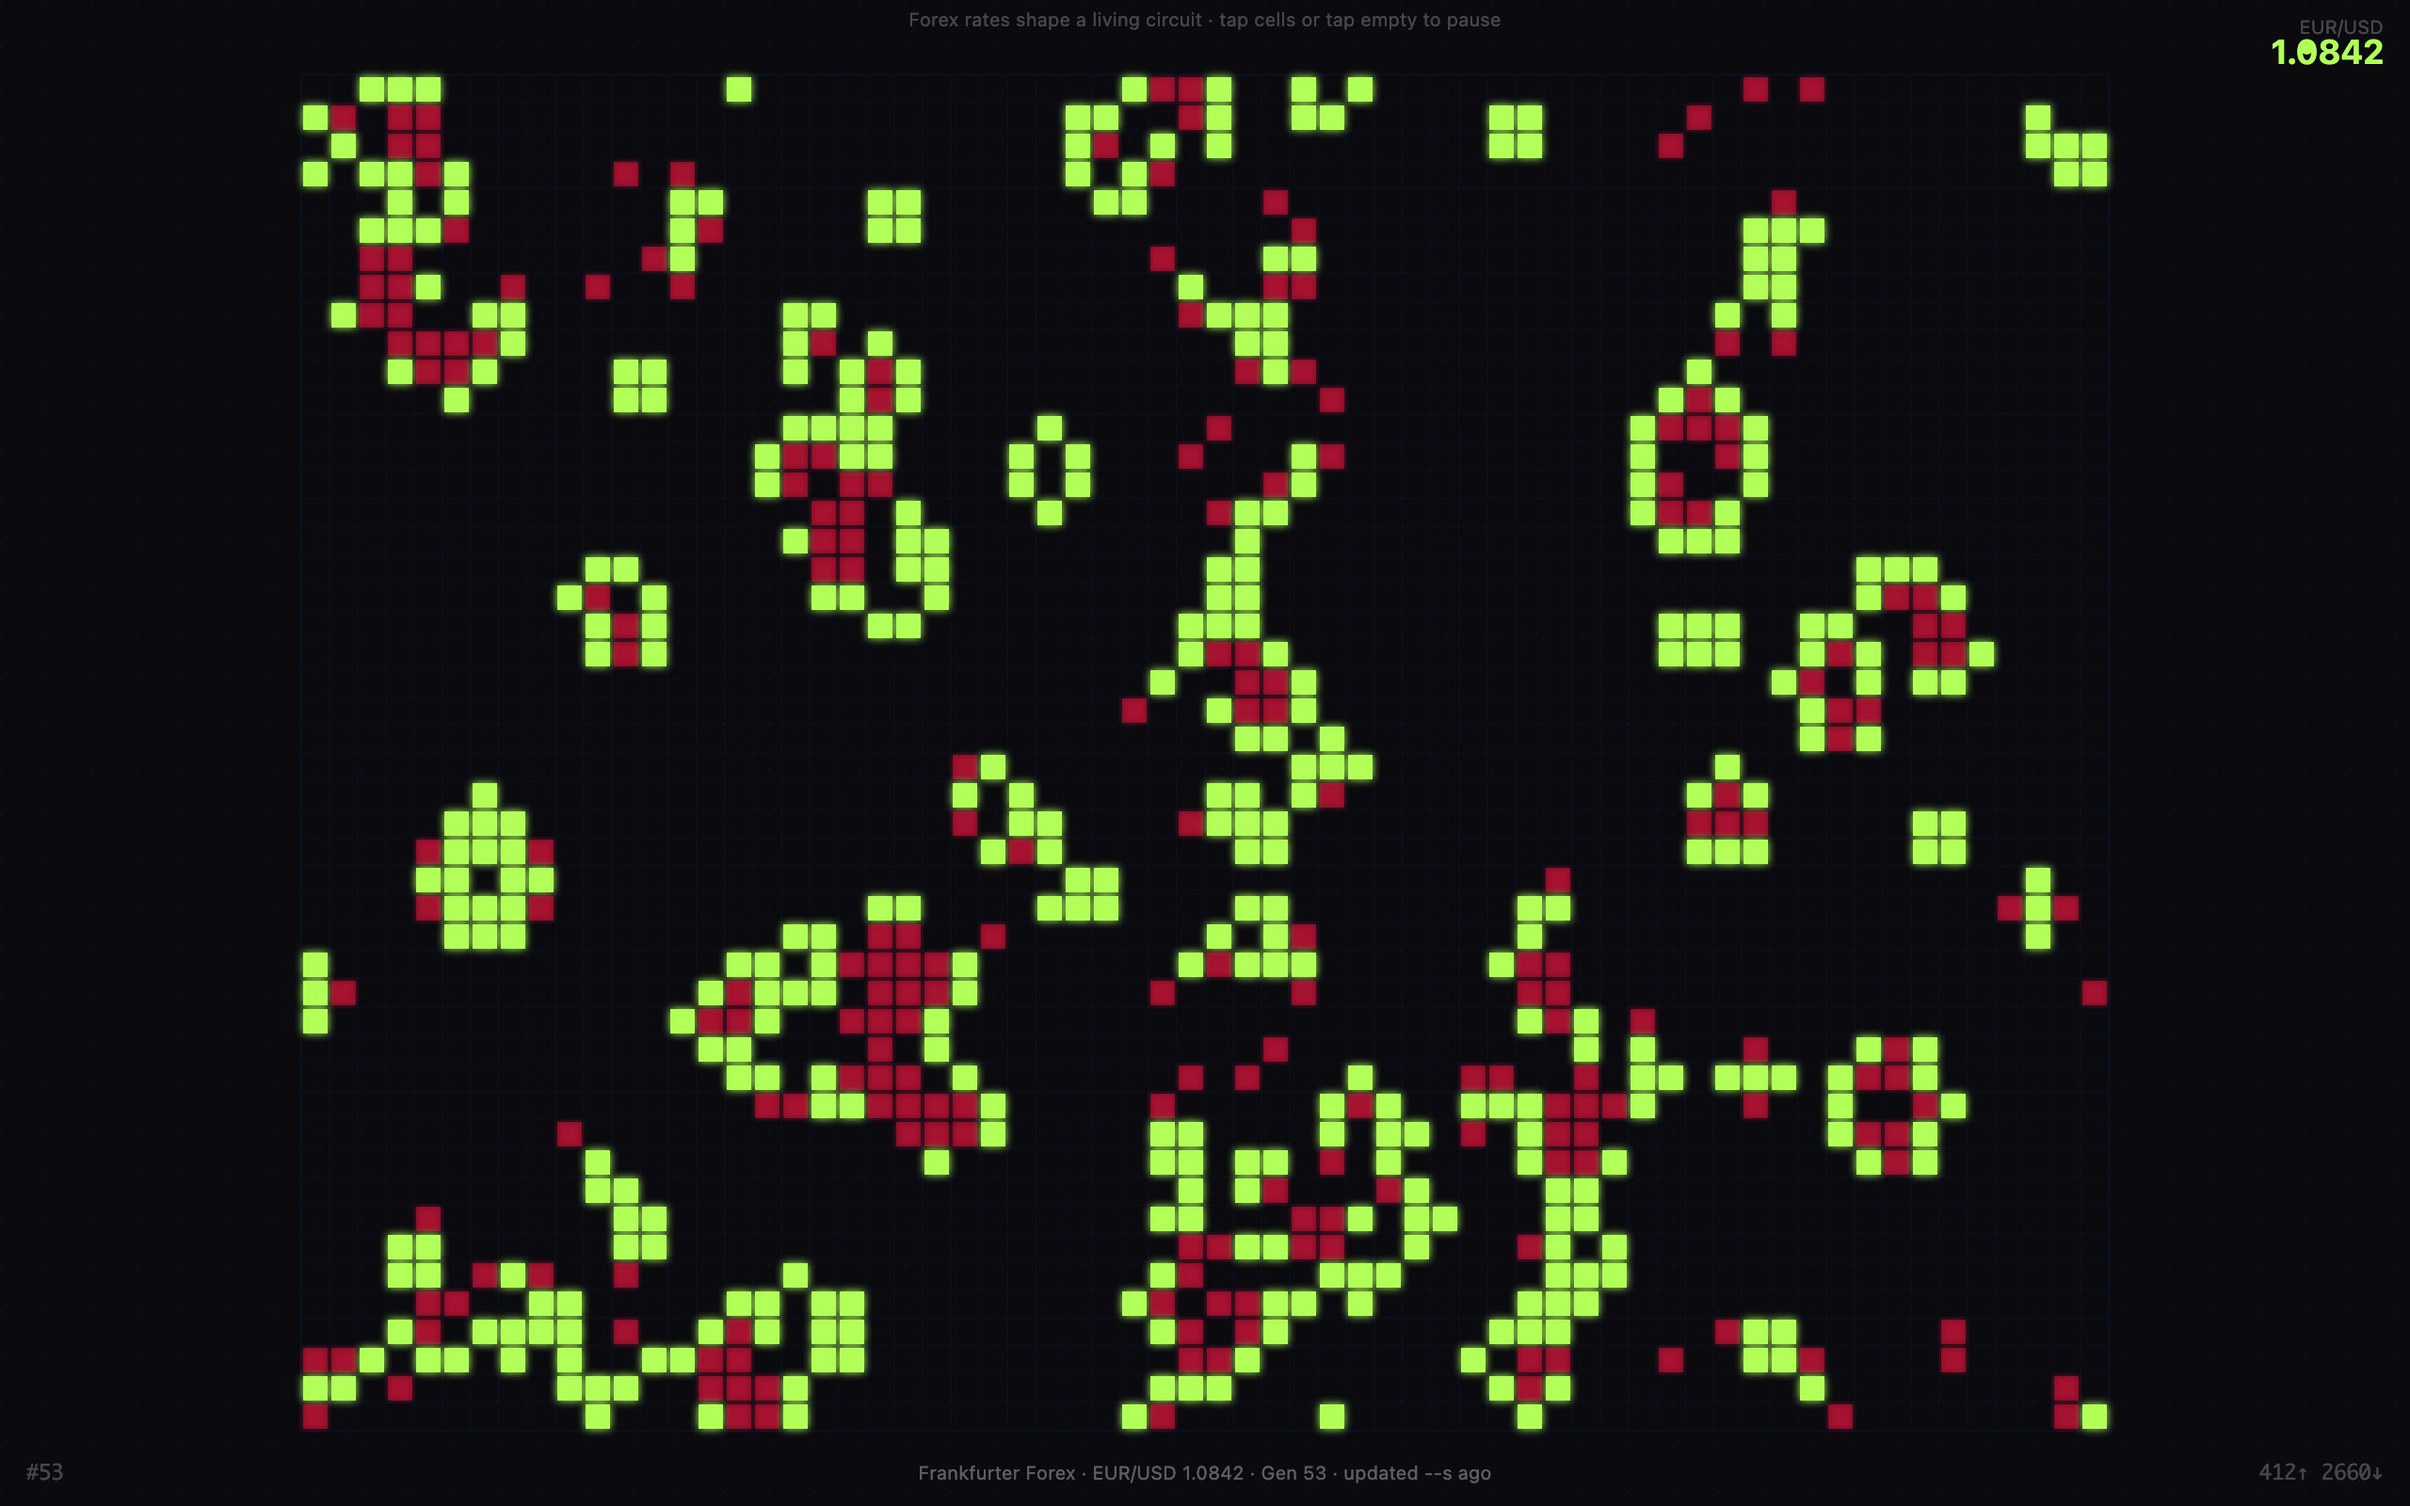
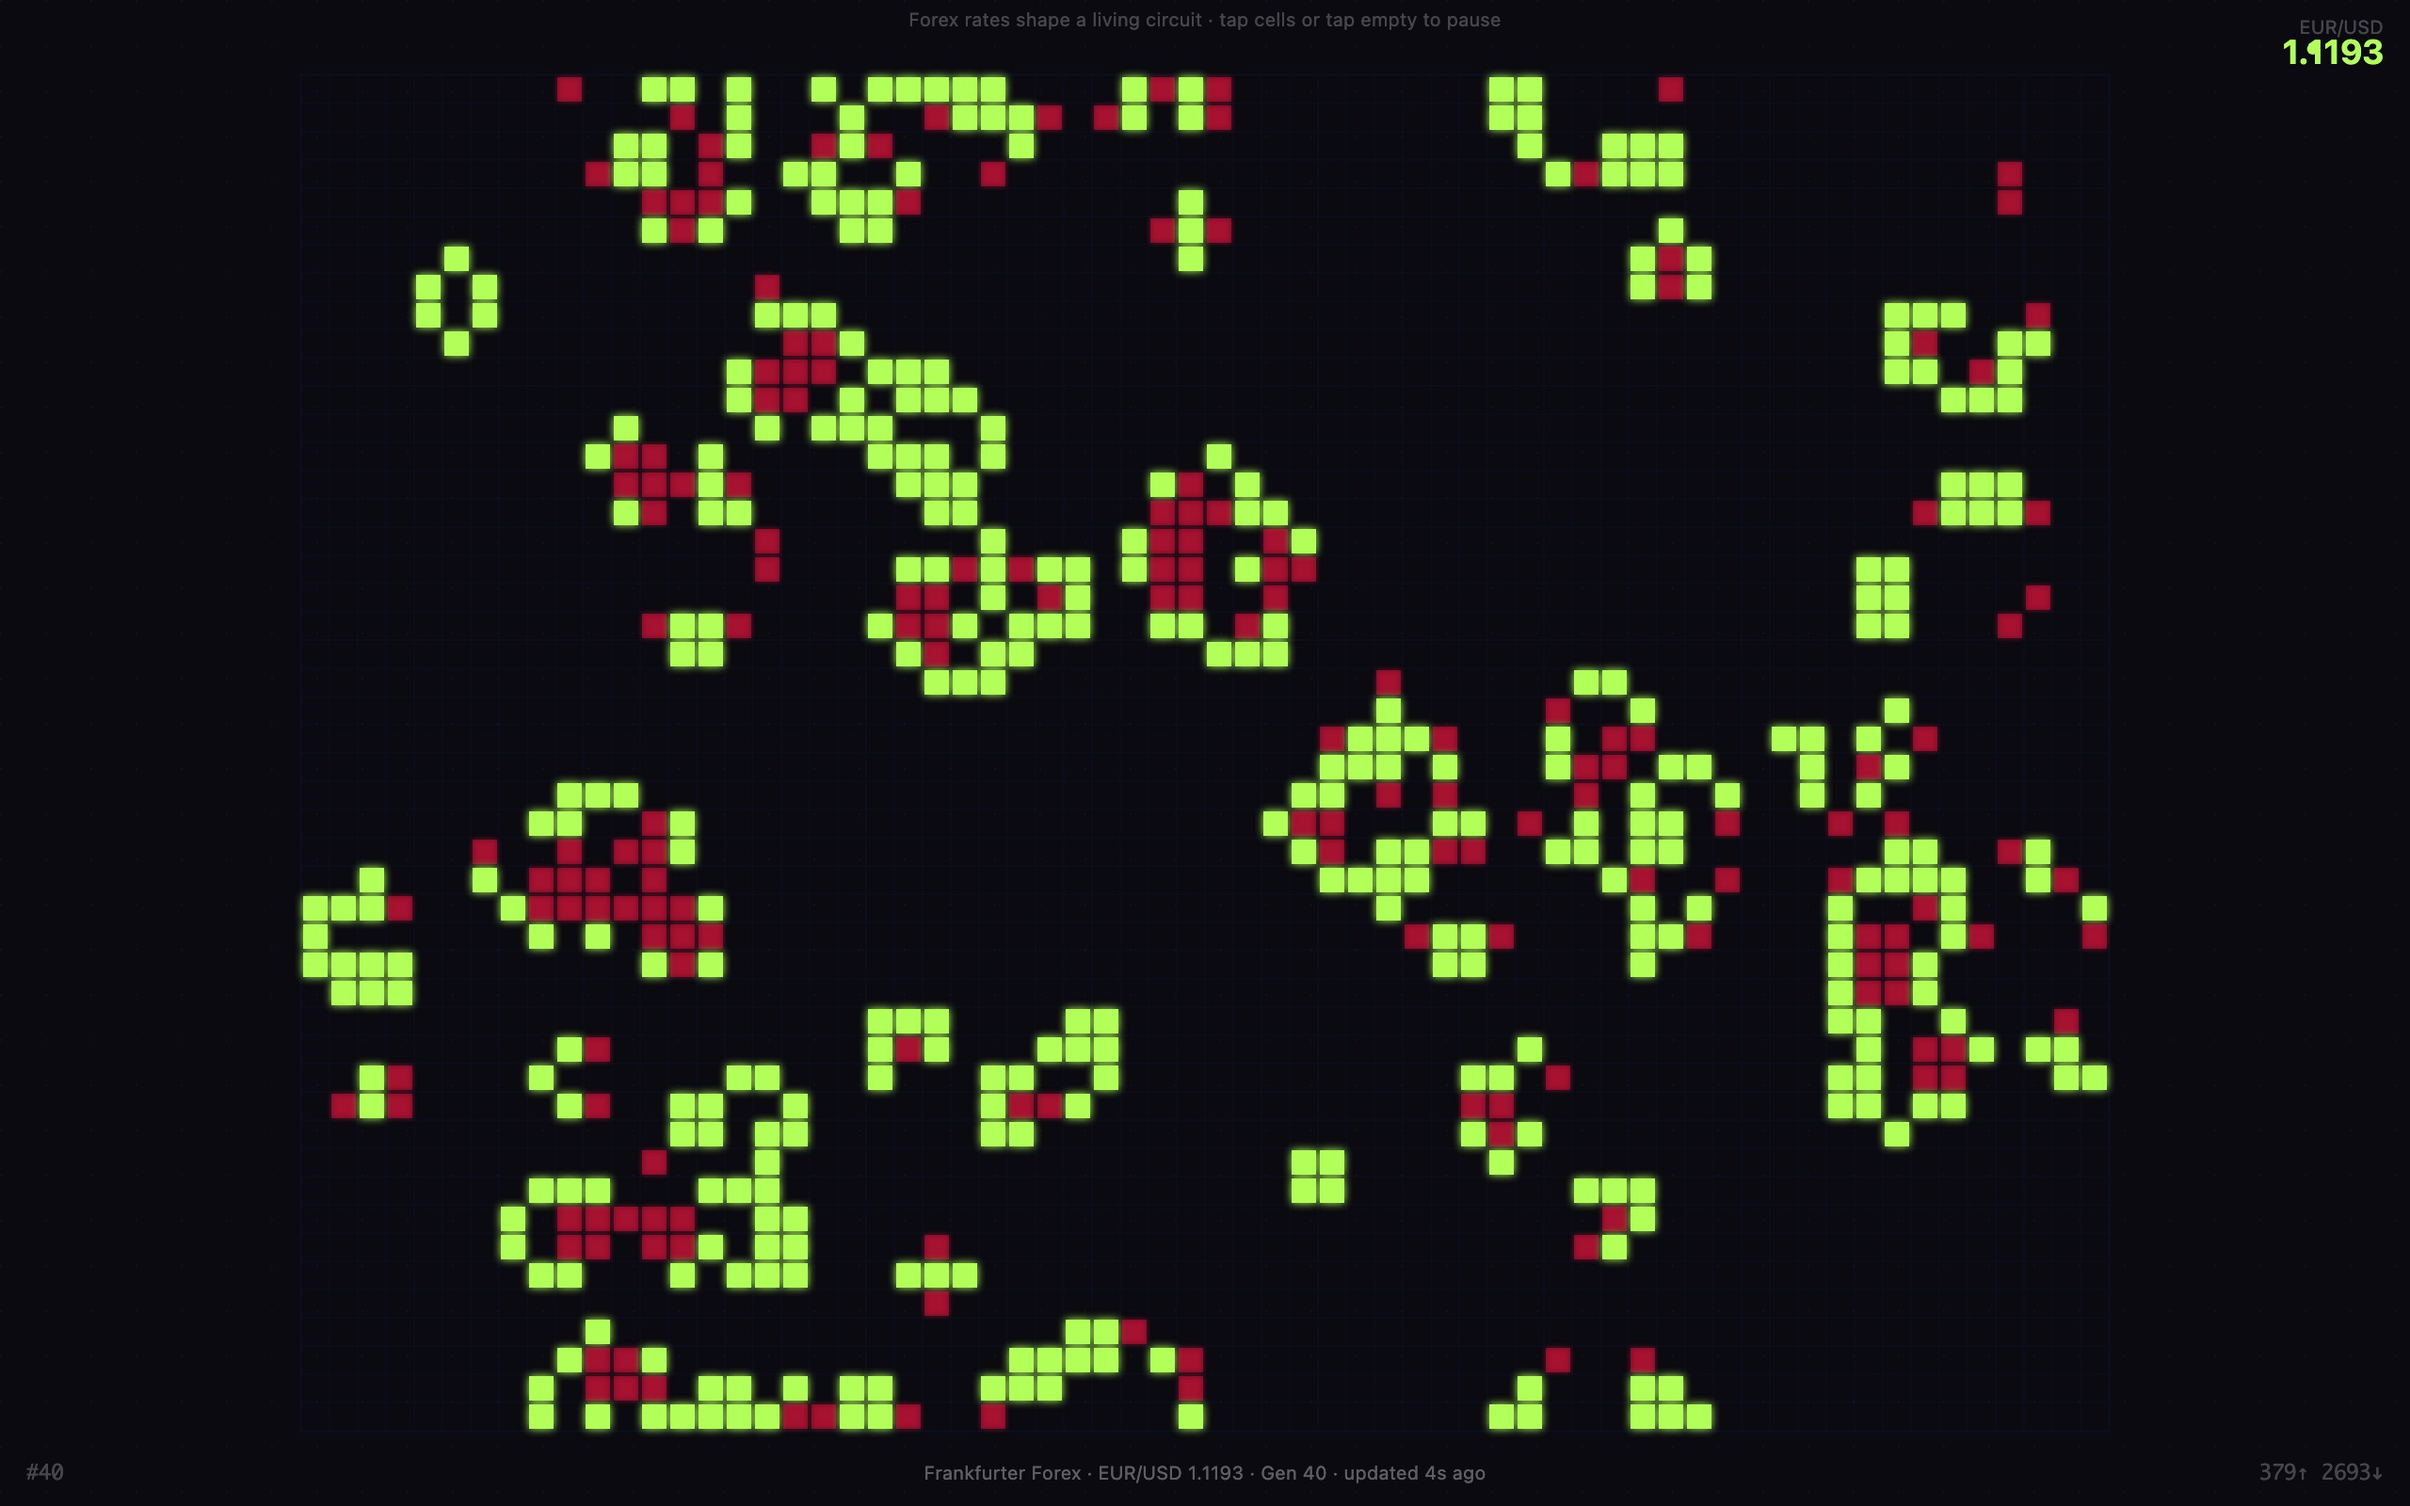
Fetch rates from api.frankfurter.dev and drop duplicate status text
The old .app host redirects without CORS, so the page always showed
fallback rates. Status line now says when it is on fallback.

diff --git a/index.html b/index.html
@@ -8,14 +8,10 @@
 *{margin:0;padding:0;box-sizing:border-box}
 html,body{width:100%;height:100%;overflow:hidden;background:#0a0a0f}
 canvas{position:fixed;top:0;left:0;width:100%;height:100%;display:block;touch-action:manipulation;image-rendering:pixelated}
-#databar{position:fixed;bottom:52px;left:0;right:0;text-align:center;color:rgba(0,255,100,0.3);font:10px/1.2 'Courier New',monospace;letter-spacing:1px;pointer-events:none;z-index:10}
-#geninfo{position:fixed;top:24px;right:24px;text-align:right;color:rgba(0,255,100,0.25);font:10px/1.5 'Courier New',monospace;pointer-events:none;z-index:10;letter-spacing:0.5px}
 </style>
 </head>
 <body>
 <canvas id="c"></canvas>
-<div id="databar">Frankfurter Forex · loading...</div>
-<div id="geninfo"></div>
 <script>
 // ─── CONFIG ───
 const C = {
@@ -25,7 +21,7 @@ const C = {
   aliveGlow: 10,
   dyingGlow: 6,
   dotSpacing: 24,
-  apiUrl: 'https://api.frankfurter.app/latest?from=EUR&to=USD,GBP,JPY',
+  apiUrl: 'https://api.frankfurter.dev/v1/latest?from=EUR&to=USD,GBP,JPY',
   apiInterval: 30000,
   warmupSteps: 25,
   initialDensity: 0.28,
@@ -77,6 +73,7 @@ let ratesDisplay = { USD: '1.0842', GBP: '0.8561', JPY: '162.43' };
 async function fetchForex() {
   try {
     const res = await fetch(C.apiUrl);
+    if (!res.ok) throw new Error('HTTP ' + res.status);
     const data = await res.json();
     const r = data.rates;
     let dirSum = 0, volSum = 0, count = 0;
@@ -97,9 +94,9 @@ async function fetchForex() {
       volatility = Math.min(1, volSum / count);
       C.updateInterval = Math.round(C.maxInterval - volatility * (C.maxInterval - C.minInterval));
       lastForexUpdate = Date.now();
-      lastFetchTime = performance.now();
+      forexError = false;
     }
-  } catch(e) { /* fallback defaults already set */ }
+  } catch(e) { forexError = true; /* fallback defaults already set */ }
 }
 fetchForex();
 setInterval(fetchForex, C.apiInterval);
@@ -110,6 +107,7 @@ let dying = new Set();
 let running = true;
 let gen = 0;
 let lastForexUpdate = 0;
+let forexError = false;
 
 function initGrid(density) {
   grid = [];
@@ -232,9 +230,11 @@ function draw() {
   ctx.textAlign = 'center';
   ctx.fillStyle = 'rgba(255,255,255,0.35)';
   ctx.font = '10px system-ui, sans-serif';
-  const secsAgo = lastForexUpdate ? Math.floor((Date.now() - lastForexUpdate) / 1000) : '--';
+  const status = lastForexUpdate
+    ? 'updated ' + Math.floor((Date.now() - lastForexUpdate) / 1000) + 's ago'
+    : forexError ? 'offline, fallback rate' : 'loading...';
   ctx.fillText(
-    'Frankfurter Forex \u00B7 EUR/USD ' + ratesDisplay.USD + ' \u00B7 Gen ' + gen + ' \u00B7 updated ' + secsAgo + 's ago',
+    'Frankfurter Forex \u00B7 EUR/USD ' + ratesDisplay.USD + ' \u00B7 Gen ' + gen + ' \u00B7 ' + status,
     W / 2, H - 14
   );
 
@@ -259,14 +259,6 @@ let lastUpdate = 0;
 function tick(ts) {
   if (running && ts - lastUpdate > C.updateInterval) {
     step();
-    genCount++;
-    let alive = 0;
-    for (let y = 0; y < C.rows; y++)
-      for (let x = 0; x < C.cols; x++)
-        if (grid[y][x]) alive++;
-    const dead = C.cols * C.rows - alive;
-    updateDataBar(ratesDisplay.USD, 'EUR/USD');
-    updateGenInfo(alive, dead);
     lastUpdate = ts;
   }
   draw();
@@ -312,19 +304,6 @@ canvas.addEventListener('touchstart', e => {
 lastUpdate = performance.now();
 tick(lastUpdate);
 
-let genCount = 0;
-let lastFetchTime = performance.now();
-function updateDataBar(rate, pair) {
-  const el = document.getElementById('databar');
-  if (!el) return;
-  const ago = Math.round((performance.now() - lastFetchTime) / 1000);
-  el.textContent = `Frankfurter Forex · ${pair} ${rate} · gen ${genCount} · ${ago}s ago`;
-}
-function updateGenInfo(alive, dead) {
-  const el = document.getElementById('geninfo');
-  if (!el) return;
-  el.textContent = `alive ${alive} · dead ${dead}`;
-}
 </script>
 </body>
 </html>

diff --git a/README.md b/README.md
@@ -22,9 +22,9 @@
 
 <br><br>
 
-<a href="https://parthchandak02.github.io/flux/"><img src="docs/assets/readme/hero.jpg" width="100%" alt="A 64 by 48 grid of glowing lime-green live cells and dim red just-died cells on a near-black dot grid, with EUR/USD 1.0842 in the top-right corner and a generation counter along the bottom"></a>
+<a href="https://parthchandak02.github.io/flux/"><img src="docs/assets/readme/hero.jpg" width="100%" alt="A 64 by 48 grid of glowing lime-green live cells and dim red just-died cells on a near-black dot grid, with the live EUR/USD rate in the top-right corner and a generation counter along the bottom"></a>
 
-<sub>Live capture, 22 October 2026. The EUR/USD figure is the built-in fallback rate; see the note below.</sub>
+<sub>Live capture, 23 October 2026.</sub>
 
 </div>
 
@@ -50,10 +50,9 @@ generations and live versus dead cells.
 Click or tap a cell to flip it alive or dead. Click outside the grid to pause or resume.
 
 > **Note.** Frankfurter publishes reference rates once per working day, so within one visit the
-> rates rarely change and the colony usually stays pale lime at the slowest speed. The page also
-> calls the old `api.frankfurter.app` address, which now redirects to `api.frankfurter.dev`
-> without CORS headers, so in a browser the fetch fails and the fixed fallback rates
-> (1.0842 USD, 0.8561 GBP, 162.43 JPY) are shown. The automaton itself runs either way.
+> rates rarely change and the colony usually stays pale lime at the slowest speed. If the API
+> can't be reached, the status line says so and fixed fallback rates (1.0842 USD, 0.8561 GBP,
+> 162.43 JPY) are shown. The automaton itself runs either way.
 
 ## Run it
 
